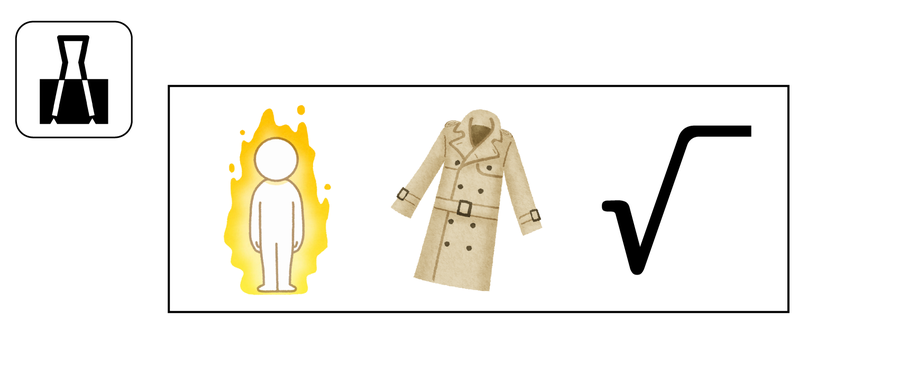
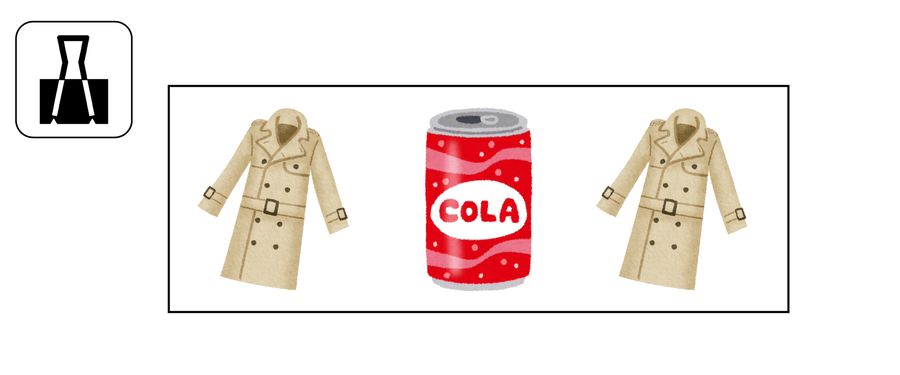
Update S-hook and clip images

Changed region(s): [[0.4356, 0.264, 0.6222, 0.792], [0.2178, 0.264, 0.4044, 0.792], [0.6533, 0.2933, 0.84, 0.792]]

diff --git a/sw.js b/sw.js
@@ -1,4 +1,4 @@
-var CACHE = 'thejail-prison-v45';
+var CACHE = 'thejail-prison-v46';
 var ASSETS = ['./', './index.html', './style.css', './app.js', './manifest.json', './fonts/play.css', './fonts/murecho.css', './fonts/murecho-100.woff2', './fonts/murecho-101.woff2', './fonts/murecho-102.woff2', './fonts/murecho-103.woff2', './fonts/murecho-104.woff2', './fonts/murecho-105.woff2', './fonts/murecho-106.woff2', './fonts/murecho-107.woff2', './fonts/murecho-108.woff2', './fonts/murecho-109.woff2', './fonts/murecho-110.woff2', './fonts/murecho-111.woff2', './fonts/murecho-112.woff2', './fonts/murecho-113.woff2', './fonts/murecho-114.woff2', './fonts/murecho-117.woff2', './fonts/murecho-119.woff2', './fonts/murecho-55.woff2', './fonts/murecho-71.woff2', './fonts/murecho-72.woff2', './fonts/murecho-77.woff2', './fonts/murecho-78.woff2', './fonts/murecho-80.woff2', './fonts/murecho-81.woff2', './fonts/murecho-82.woff2', './fonts/murecho-84.woff2', './fonts/murecho-86.woff2', './fonts/murecho-87.woff2', './fonts/murecho-89.woff2', './fonts/murecho-90.woff2', './fonts/murecho-91.woff2', './fonts/murecho-92.woff2', './fonts/murecho-93.woff2', './fonts/murecho-94.woff2', './fonts/murecho-95.woff2', './fonts/murecho-96.woff2', './fonts/murecho-97.woff2', './fonts/murecho-98.woff2', './fonts/murecho-99.woff2', './fonts/Play-Bold-latin.woff2', './fonts/Play-Bold-greek.woff2', './images/window.png', './images/choice-head.png', './images/sym-yes.png', './images/sym-no.png', './images/banner-senryu.png', './images/banner-ai.png', './images/caution.png', './images/btn-code.png', './images/btn-record.png', './images/icon-cab.png', './images/logo-thejail.png', './images/icon-192.png', './images/icon-512.png', './images/apple-touch-icon.png', './images/item-mask.png', './images/icon-mask.png', './images/item-pencil.png', './images/icon-pencil.png', './images/item-tissue.png', './images/icon-tissue.png', './images/item-chain.png', './images/icon-chain.png', './images/item-ballpoint.png', './images/icon-ballpoint.png', './images/item-battery.png', './images/icon-battery.png', './images/item-eraser.png', './images/icon-eraser.png', './images/item-diamond.png', './images/icon-diamond.png', './images/item-heart.png', './images/icon-heart.png', './images/item-club.png', './images/icon-club.png', './images/item-spade.png', './images/icon-spade.png', './images/item-carabiner.png', './images/icon-carabiner.png', './images/item-clip.png', './images/icon-clip.png', './images/item-shook.png', './images/icon-shook.png'];
 
 self.addEventListener('install', function (e) {
